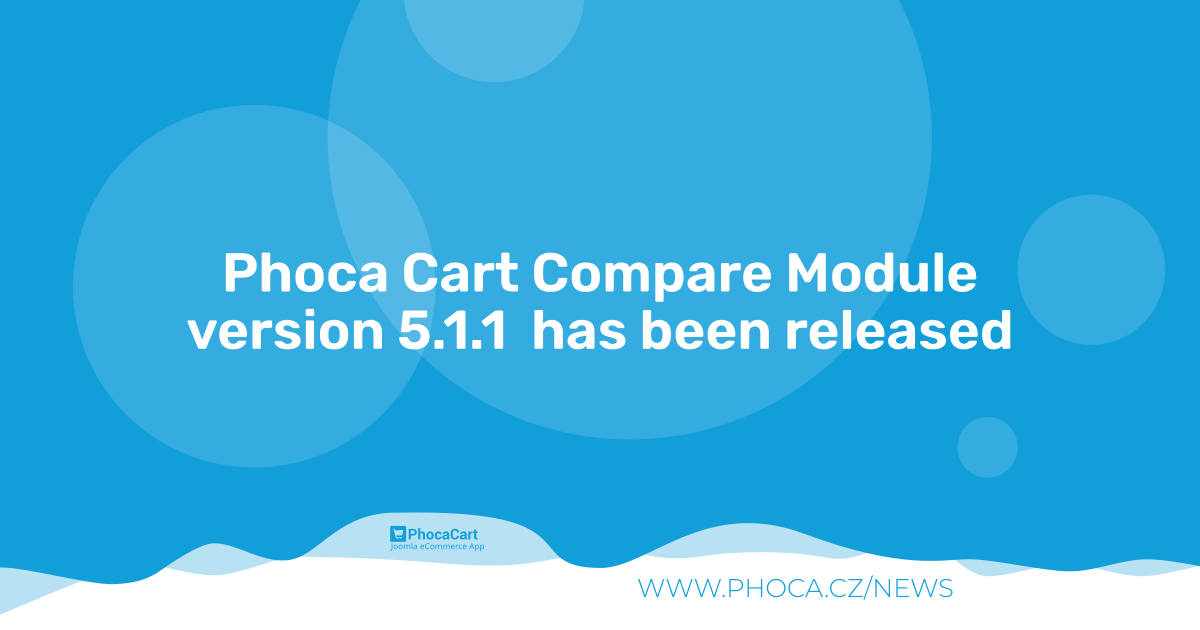
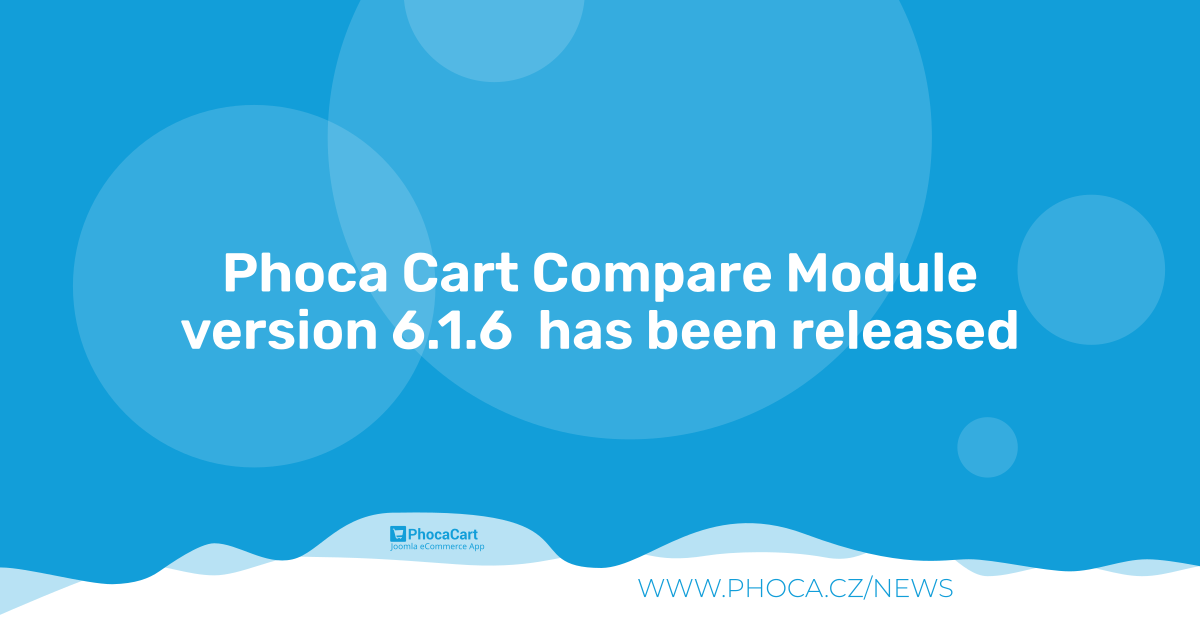
6.1.6

Changed region(s): [[0.1542, 0.4825, 0.8633, 0.573]]

diff --git a/mod_phocacart_compare.php b/mod_phocacart_compare.php
@@ -43,7 +43,7 @@ $lang->load('com_phocacart');
 
 $media = PhocacartRenderMedia::getInstance('main');
 $media->loadBase();
-$media->loadBootstrap();
+//$media->loadBootstrap();
 $media->loadSpec();
 $s = PhocacartRenderStyle::getStyles();
 

diff --git a/README.MD b/README.MD
@@ -20,81 +20,69 @@ Our compliance with the principles of free and open-source software is establish
 
 *This repository is a shared community resource dedicated to the global open-source ecosystem.*
 
+### Community Feedback & Contributions
 
-## Project page
+We welcome your feedback and active involvement. You can join the development and follow the progress on public, independent GitHub pages at [https://github.com/PhocaCz](https://github.com/PhocaCz).
+Any feedback, bug reports, feature suggestions, or code improvements can be submitted transparently via **GitHub Issues** or **Pull Requests** within the respective repository.
 
-[Phoca Cart Compare Module](https://www.phoca.cz/phoca-cart-compare-module)
+### Accompanying External Resources
 
-[Phoca Cart Info Page](https://www.phoca.cz/project/phocacart-joomla-ecommerce)
+If you need additional information beyond this GitHub repository, further documentation, updates, and community channels are available on the following external websites:
 
+#### External Project Information
 
-
-## Documentation
-
-[Documentation](https://www.phoca.cz/documentation/category/118-phoca-cart-compare-module)
-
-
-
-
-
-## Support
-
-[Phoca Forum](https://www.phoca.cz/forum)
-
-:bell: [Phoca Forum RSS](https://www.phoca.cz/forum/app.php/feed)
+- [Phoca Cart Compare Module](https://www.phoca.cz/phoca-cart-compare-module)
+- [Phoca Cart Info Page](https://www.phoca.cz/project/phocacart-joomla-ecommerce)
+- [Project is listed on Joomla Extensions Directory](https://extensions.joomla.org/)
+- [Project is listed on Phoca download directory](https://www.phoca.cz/download)
 
 
+#### External Documentation
 
-## News
-
-[Phoca News](https://www.phoca.cz/news)
-
-:bell: [Phoca News RSS](https://www.phoca.cz/news?format=feed&type=rss)
-
-:bell: [Phoca Latest Releases RSS](https://www.phoca.cz/download/feed/111?format=feed&type=rss)
+- [Documentation](https://www.phoca.cz/documentation/category/118-phoca-cart-compare-module)
 
 
+#### External Community Support
 
-## Demo
+- [Phoca Forum](https://www.phoca.cz/forum)
+- [Joomla Forum](https://forum.joomla.org/)
+- [Joomlaportal.cz Forum - Czech](https://www.joomlaportal.cz/forum)
+- [Joomla.de Supportforum - German](https://forum.joomla.de/)
+- :bell: [Phoca Forum RSS](https://www.phoca.cz/forum/app.php/feed)
 
-[Joomla! - Phoca Cart Demo](https://www.phoca.cz/phocacartdemo/)
 
-[Joomla! - Phoca Cart - Phoca Premiere Template Demo](https://www.phoca.cz/phocacartdemo/premiere/)
+#### External News & Feeds
+
+- [Phoca News](https://www.phoca.cz/news)
+- [Joomlaportal.cz News](https://www.joomlaportal.cz/novinky)
+- :bell: [Phoca News RSS](https://www.phoca.cz/news?format=feed&type=rss)
+- :bell: [Phoca Latest Releases RSS](https://www.phoca.cz/download/feed/111?format=feed&type=rss)
 
 
+#### Demo
 
-## Version (Joomla! 3.x)
+- [Joomla! - Phoca Cart Demo](https://www.phoca.cz/phocacartdemo/)
+- [Joomla! - Phoca Cart - Phoca Premiere Template Demo](https://www.phoca.cz/phocacartdemo/premiere/)
 
+### Version (Joomla! 3.x - no longer supported)
 3.5.8
-
-## Version (Joomla! 4.x)
-
+### Version (Joomla! 4.x - no longer supported)
 4.0.9
-
-## Version (Joomla! 5.x)
-
+### Version (Joomla! 5.x - no longer supported)
 5.1.1
+### Version (Joomla! 6.x)
+6.1.6
 
-
-
-## License
+### License
 
 GNU/GPL
 
-
-
 This project is open source project - feel free to contribute! Thank you.
 
-
-
-## Social Media
+### Social Media
 
 - [Phoca on Facebook](https://www.facebook.com/Phoca.cz)
-
 - [Phoca on X (Twitter)](https://twitter.com/PhocaCz)
-
 - [Phoca on YouTube](https://www.youtube.com/user/phocavideos)
-
 - [Phoca on GitHub](https://github.com/PhocaCz)
-
 - [Phoca on Reddit](https://www.reddit.com/user/PhocaCz)

diff --git a/FOSS.md b/FOSS.md
@@ -1,0 +1,13 @@
+Free and Open Source Software (FOSS) Declaration
+
+This project is developed, distributed, and maintained strictly as **Free and Open Source Software (FOSS)**. It is provided entirely outside the course of any commercial activity as an independent public resource.
+
+Our compliance with the principles of free and open-source software is established by the following structural and operational guidelines:
+
+* **Strictly Non-Commercial & Public Good:** This software is provided 100% free of charge. No commercial entities control or fund this repository, and there are no commercial monetization models, paid subscriptions, or premium paywalls associated with this codebase.
+* **Independent Volunteer Contributions:** The development, maintenance, and testing of this extension are driven entirely by independent, voluntary contributions from the global community.
+* **No Commercial Technical Support:** Technical support is not provided as a paid commercial service by the maintainers of this repository. Community assistance is available on a voluntary, non-binding basis via public forums.
+* **No Proprietary Lock-in:** The software is licensed under the copyleft GNU General Public License (GPL). You have absolute freedom to run, study, share, modify, and redistribute the code.
+* **Decentralized Infrastructure:** This codebase is hosted in a public, transparent repository on GitHub to foster open collaborative development and public peer review, ensuring safety and quality through community vigilance.
+
+*This repository is a shared community resource dedicated to the global open-source ecosystem.*
